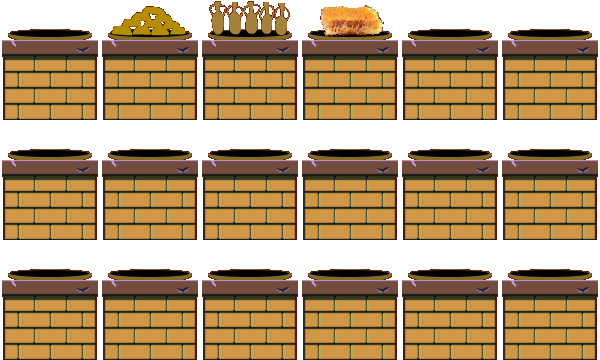
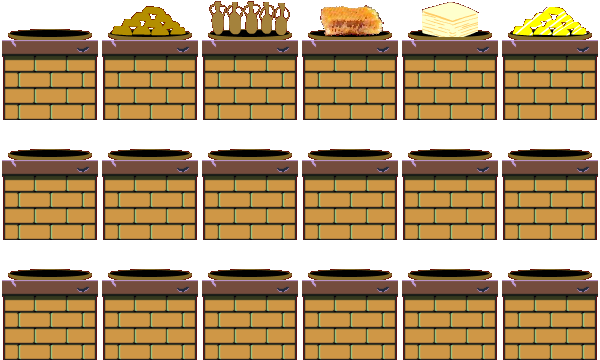
Abdju!

Changed region(s): [[0.84, 0.0, 0.99, 0.1222], [0.69, 0.0, 0.81, 0.1222]]

diff --git a/js/text.js b/js/text.js
@@ -126,8 +126,10 @@ const texts = {
     "bastet": "Bastet was a goddess originally celebrated as a lioness warrior of the sun, but eventually became the protector cat goddess. | Her parents were Ra the sun god and the goddess Isis, and with the craftsman god Ptah, she birthed Maahes the lion warrior.",
     "maahes": "Maahes was a lion-headed god of war and son of the god Ptah and either Bastet or Sekhmet, depending on the mythology. | It was said that as the sun god Ra went on his nightly voyages, Maahes would fight off Apep, the serpent god of chaos. | The duality of chaos against order was an important part of Ancient Egyptian beliefs; one could not exist without the other. | Chaos was called Isfet and order was called Ma'at. The dead needed to be purified of Isfet before they could be reborn in the afterlife.", 
     "sekhmet": "Sekhmet was a lioness goddess of healing. She was also the fiercest hunter in Ancient Egypt. | The sun god Ra sent her to punish mankind for failing to uphold order, but Sekhmet became overcome with bloodlust and took things too far. | Sekhmet refused to end her rampage, so the other gods spilled a mix of beer and pomegranate juice in Sekhmet's path. | Sekhmet, thinking it was blood, drank it up, and eventually passed out from the alcohol.", 
-    "ptah": "Ptah is the guardian of Memphis, a creator god who created the universe by thinking it and giving it life with his words. | He is the god of craftsmen, carpentry, and builders. He is married to the lioness god Sekhmet, and with her he had his son, Nefertum, the a beautiful man made from a lotus flower.", 
-    "sobek": "Sobek, the crocodile god of power and fertility. Like crocodiles, he was an aggressive deity. | At his temple in Shedet, priests kept and cared for a royal crocodile they dubbed the Petsuchos - the son of Sobek. | This Petsuchos was worshipped as a manifestation of Sobek, and when it died, it was mummified and a new son of Sobek was found.",
+    "ptah": "Ptah was the guardian of Memphis, a creator god who created the universe by thinking it and giving it life with his words. | He is the god of craftsmen, carpentry, and builders. He is married to the lioness god Sekhmet, and with her he had his son, Nefertum, the a beautiful man made from a lotus flower.", 
+    "sobek": "Sobek: the crocodile god of power and fertility. Like crocodiles, he was an aggressive deity. | At his temple in Shedet, priests kept and cared for a royal crocodile they dubbed the Petsuchos - the son of Sobek. | This Petsuchos was worshipped as a manifestation of Sobek, and when it died, it was mummified and a new son of Sobek was found.",
+    "osiris": "Osiris was an important god in Ancient Egyptian mythology; a god of fertility and of the afterlife. | His brother Set killed him and cut him into pieces, and when his wife Isis found him, she wrapped up the pieces, hence his mummy wrap. | He then became the judge and ruler of the underworld, while is son Horus avenged him by fighting Set and becoming the new ruler of Egypt.",
+    "isis": "Isis - the wife of the divine king Osiris, who helped the dead move on to the afterlife and was considered the divine mother of the Pharaoh. | Her magical powers exceeded those of all other gods, and she became one of the most widely worshipped dieties in the first millennium BC.",
 
     // Crops
     "corn0": ["Corn in Ancient Egypt? That doesn't sound right. | !Corn, or maize, was first domesticated in Mexico over 6000 years ago.", 
@@ -169,7 +171,7 @@ const texts = {
     "noNectar": "The bees have not collected any nectar yet. | Bees help pollinate plants when they fly from flower to flower collecting nectar. As they're lapping up nectar, pollen from the flower sticks to them. | Flower pollen contains male gametes, which can fertilize other flowers when bees land on them. | Once a flower's ovule has been fertilized by a bee with pollen on it, seeds can be formed, so the plant can reproduce. | I should release some bees around some plants so they can collect some nectar.", 
     "smonk": "Bee-autiful! I collected enough honeycomb to get me @arg jars of honey and @arg2 beeswax!",
 
-    // People - Taremu
+    // Regional - Taremu
     "fishboy": "Taremu is the land of fish, but some foreigners call it the city of lions, because of our temples to the lion goddesses. | But why do you think the goddesses like this city in the first place? Because of all the fish we got here, ya dingdong! | The lions came to the fish, not the other way around, obviously!",
     "fishshop": "There are a lot of cats here - we even have lions in the temple sometimes - so fishing is popular here. | People will buy fish for themselves, or to give to the cats as gifts or offerings. | We consider cats very important - they kill dangerous snakes and protect our Pharaohs.",
     "fruitboy1": "Fruit! Get your fruit here! We got pomegranates, we got melons, we got dates, figs, grapes, olives, plums! | I even have apples - those fruits the Hyksos brought with them! | What, you don't know the Hyksos? Back in the day, they invaded and started the Fifteenth Dynasty! | We're still not entirely sure where they came from, though. | Eventually Ahmose I, the first ruler of the Eighteenth Dynasty, drove off the last Hyksos pharoah and brought Egypt back under Egyptian control! | Being conquered must have sucked, but the Hyksos left a lot of great stuff behind, like new bronze-working techniques, horses, stronger bows and battle axes, and, of course, apples! | Don't ask why a random fruit merchant knows all this, I'm just trying to sell these apples, lady!",
@@ -180,7 +182,7 @@ const texts = {
     "breadgirlNo": "Darn. I guess I'll have to find some honey elsewhere.", 
     "breadgirlLack": "Your generosity is appreciated, but you can't give me honey you don't have. | If you get four jars of honey, come back later and I'll gladly take them off your hands!",
     
-    // People - Memphis
+    // Regional - Memphis
     "student1": "I don't like writing - words are too long! Like the blessing \"ankh, wedja, seneb\" (life, prosperity, health) is three whole words! | We need to find some way to shorten things... maybe make that \"anwese.\" | Just one hieroglyph for all three! I think I'm on to something here. Maybe some day things like that will catch on.",
     "student2": "Noblemen and royalty like me need to go to fancy schools so we can be \"educated\" and \"worldly.\" What a load of junk! | I don't need to know things to be pharoah! The gods will just tell me what to do! | I hope some day the standards are lowered so that ANYONE can be a leader! Even people who hate reading and thinking like me!",
     "teacher": "This educational centre was set up for nobility and royal princes. | To be successful, the younger generation needs to know things like mathematics, history, ethics, medicine, and music! | Some boys are sent off to schools like this as young as eight years old! | Girls, however, get their educations at home, learning things like sewing and cooking from their mothers.",
@@ -191,7 +193,7 @@ const texts = {
     "amenken1b": "Can you provide me with 10 beeswax? I can give you 3 gold for it! | ?amenken1",
     "amenken2": "Thanks for that beeswax! It will surely come in handy!",
 
-    // People - Shedet
+    // Regional - Shedet
     "sobekpriest": "Praise Sobek, the crocodile god who protects us from the dangers of the Nile! | You look like the Sobek-loving sort, given that you are a human, and all humans should love Sobek! | @Sobek's got quite the fanbase here, huh? | Of course, Shedet is home to Sobek's temple, and also a bunch of crocodiles! | You should obviously give something to Sobek himself at the altar over there, but if you're an EXTRA good person, you might be inclined to feed some of the local crocodiles, too! | Just toss those bad boys some fish, and maybe something good will happen if you do!",
     "crocodil": "aaAAaaAaaa | ~croc",
     "crocodil2": "@It looks like it wants some food. | ?croc",
@@ -205,6 +207,19 @@ const texts = {
     "incenseshopLack": "Hey hey! You don't have any gold! If you want free incense, become a god! Otherwise, pay up!", 
     "incenseshopBuy": "Pleasure doing business with you, ma'am! Come again whenever you need more incense!", 
     "obelisk": "This obelisk - a stone pillar - was set up by Senusret I during the 12th Dynasty to celebrate his 30th year as Pharaoh. | To this day, it still stands as the oldest standing obelisk in Egypt.", 
+
+    // Regional - Abdju
+    "tombKhasekhem": "Khasekhemwy was the last pharoah of Egypt's Second Dynasty in the early 2600's BC. | Not much is known about him, but his tomb was excavated in 1901, revealing several chambers, a burial chamber made with limestone blocks, and an elaborate golden scepter. | He built a mudbrick fort known as Shunet El Zebib, which is actively being preserved and researched to this day.",
+    "tombPeribsen": "Peribsen was a pharaoh of the Second Dynasty, some time in the 2700's BC. | Unlike other pharaohs, his patron diety was Set - a god of chaos who killed his brother Osiris - instead of the usual Horus - Osiris's son who avenged his father's death. | In his tomb, archaeologists discovered a Mehen game board. | The game Mehen - named after a snake diety - was a game played on a board shaped like a coiled snake.",
+    "tombQaa": "Qa'a reigned for 33 years at the end of the 30th century BC as the last pharaoh of the First Dynasty of Ancient Egypt. | It is believed that after he died, a war began between royal houses over who would take over the throne.",
+    "tombSemerkhet": "Semerkhet was a pharoah of the First Dynasty. It was said by the historian and priest Manetho that some calamity occurred during his reign. | Historians have found mention of a \"Destruction of Egypt\" mentioned in the Palermo Stone, which documented his reign.",
+    "tombKa": "Before the First Dynasty of Ancient Egypt, there was the Predynastic Period, which spanned from around 6000 BC to 3000 BC. | After the unification of Upper and Lower Egypt, the First Dynasty began. | One of the pharaohs of the Predynastic Period was a ruler whose name is not agreed upon yet. | Some read his name as \"Ka,\" and others read it as \"Sekhen.\" | Not much is known about his reign, but along with Narmer and Scorpion II, he is one of the more heavily documented Predynastic pharaohs.",
+    "goldboy": "Hey hey, if you're going to make an offering to the goddess Isis, you better have some gold ready! | Isis protects the royal throne, and you know the pharaohs love their shiny gold! | Hey hey, you seem like you might have a lot of honey on you. I can tell from how you don't look like a beekeeper! | There's nothing sweeter than honey, except the woman I want to marry, so I need some honey to get that honey, if you know what I mean. | @I really don't. | Hey hey, honey isn't just for sweetening foods, lady! | Honey is used to stop infections, pay taxes, give tribute to the gods, embalm mummies, and, of course, it's used in marriage proposals! | I wrote up a marriage contract: \"I take thee to wife... and promise to deliver to thee yearly twelve jars of honey.\" | Pretty sweet deal, huh? Heh, good one, me! | But I think I bit off more than I could chew with that, so I can't propse to her until I actually HAVE some honey! | So, whattaya say? Honey for Gold? Twelve jars for twelve gold! | ?honeyGold",
+    "goldboyB": "Hey hey, honey for gold. Deal of a lifetime. Twelve honey jars for twelve gold. Do it for love! | ?honeyGold",
+    "goldboyNo": "Hey hey, that really stings. Buzz off if you're going to be like that!",
+    "goldboyLack": "Hey hey, I'm loving the enthusiasm. The world needs more helpful people like you. | But it looks like you're just as lacking in honey as I am. | If you get 12 jars of honey, come back and talk to me!",
+    "goldboyBuy": "Hey hey, you're a real hero, you know that? | Now I've got enough honey to offer my sweetie for @arg! | I want this marriage to last much longer than that, though, so if you get more honey, you know where to find me!",
+    "goldboyBuy5": "Hey hey, you've given me five years worth of honey now! | I'm not set for life yet, but I'm definitely covered for the honeymoon stage of my marriage! | However, with that marriage contract, I guess it'll ALWAYS be a honeymoon stage... | Either way, I'll gladly accept any more honey you have, but for now I want to thank you again for your help! | Here's a few jugs of milk as Bonus Thanks! You know, milk and honey and all that. | Use it wisely! By drinking it, probably.",
     "": ""
 };
 
@@ -337,6 +352,36 @@ const choices = {
             action: function() {
                 land.target.text = "incenseshopb";
                 textHandler.MoveToNewText("incenseshopNo");
+            }
+        }
+    ],
+    "?honeyGold": [
+        {
+            choice: "Trade 12 honey for 12 gold.",
+            action: function() {
+                if(player.HasItem("honey", 12)) {
+                    player.RemoveHoney("any", 0, 12);
+                    player.AddItem("gold", 12);
+                    player.easterEggs.honeyBoy += 1;
+                    if(player.easterEggs.honeyBoy === 5) {
+                        player.ClearChievo("Abdju", "slappy2");
+                        player.AddItem("milk", 5);
+                        textHandler.MoveToNewText("goldboyBuy5");
+                    } else {
+                        textHandler.MoveToNewText("goldboyBuy", player.easterEggs.honeyBoy + (player.easterEggs.honeyBoy === 1 ? " year" : " years"));
+                    }
+                    land.target.text = "goldboyB";
+                } else {
+                    land.target.text = "goldboyB";
+                    textHandler.MoveToNewText("goldboyLack");
+                }
+            }
+        },
+        {
+            choice: "Don't trade.",
+            action: function() {
+                land.target.text = "goldboyB";
+                textHandler.MoveToNewText("goldboyNo");
             }
         }
     ]

diff --git a/js/things.js b/js/things.js
@@ -10,10 +10,10 @@ const things = {
     "tutServant": { type: "person", sprite: "pers2tiny", anim: "helpser", dir: 1, name: "Setka", text: "intro9" },
 
     /* --- PLANTS --- */
-    "corn": { type: "observable", sprite: "plants", sx: 2, rawsx: 0, name: "Corn", textRange: 1 },
+    "corn": { type: "observable", sprite: "plants", sx: 2, rawsx: 0, name: "Corn", textRange: 1 }, // not yet used
     "wheat": { type: "observable", sprite: "plants", sx: 3, rawsx: 1, name: "Wheat", textRange: 2 },
     "barley": { type: "observable", sprite: "plants", sx: 4, rawsx: 0, name: "Barley", textRange: 1 },
-    "papyrus": { type: "observable", sprite: "plants", sx: 5, rawsx: 1, name: "Papyrus", textRange: 3 },
+    "papyrus": { type: "observable", sprite: "plants", sx: 5, rawsx: 1, name: "Papyrus", textRange: 3 }, // not yet used
 
     "flax": { type: "beeable", sprite: "plants", sx: 1, rawsx: 0, sy: 1, name: "Flax", textRange: 2, beeY: -120 },
     "date": { type: "beeable", sprite: "plantsBig", rawsx: 0, sx: 1, name: "Date Palm", textRange: 2, beeY: -280, beeRadius: 75 },
@@ -21,16 +21,17 @@ const things = {
     "bluelotus": { type: "beeable", sprite: "plantsSmall", rawsx: 0, sx: 1, name: "Blue Lotus", textRange: 2, foreground: true },
     "whitelotus": { type: "beeable", sprite: "plantsSmall", rawsx: 0, sx: 2, name: "White Lotus", textRange: 3, foreground: true },
     "chamomile": { type: "beeable", sprite: "plantsSmall", rawsx: 3, sx: 5, name: "Chamomile", textRange: 1, beeY: -60 },
-    "chrysanthemum": { type: "beeable", sprite: "plantsSmall", rawsx: 3, sx: 4, name: "Crown Daisy", textRange: 1, foreground: true }, // untested
+    "chrysanthemum": { type: "beeable", sprite: "plantsSmall", rawsx: 3, sx: 4, name: "Crown Daisy", textRange: 1, foreground: true },
     
     "fig": { type: "observable" }, // fig wasps
     "garlic": { type: "observable" }, // BAD FOR BEES!!!
     "lettuce": { type: "observable" }, // to fuck good
-    "melon": { type: "beeable" },
+    "melon": { type: "beeable" }, // not yet used
     "cornflower": { type: "beeable" }, // Centaurea depressa, imported
     "redpoppy": { type: "beeable" }, // Papaver rhoeas, imported
-    "acacia": { type: "beeable" },
-    "onion": { type: "beeable" },
+    "acacia": { type: "beeable" }, // not yet used
+    "onion": { type: "beeable" }, // not yet used
+    "lettuce": { type: "beeable" }, // not yet used
 
     /* --- MISC --- */
     "puddle": { type: "bg", sprite: "puddle", foreground: true, y: 15 },
@@ -64,12 +65,21 @@ const things = {
     "crocodilI": { type: "person", sprite: "", name: "Crocodile", text: "crocodil" },
     "incenseVendor": { type: "person", sprite: "shopkeeps", sy: 1, dir: 0, name: "Senisonbe", text: "incenseshop" },
     "obelisk": { type: "observable", sprite: "obelisk", name: "Obelisk", text: "obelisk" }, 
+    // Abdju
+    "tomb": { type: "bg", sprite: "tomb", dir: 0 },
+    "tombKhasekhem": { type: "observable", sprite: "tombGlyph", sx: 0, name: "Khasekhemwy's Tomb", text: "tombKhasekhem", y: -290 },
+    "tombPeribsen": { type: "observable", sprite: "tombGlyph", sx: 1, name: "Peribsen's Tomb", text: "tombPeribsen", y: -290 },
+    "tombQaa": { type: "observable", sprite: "tombGlyph", sx: 2, name: "Qa'a's Tomb", text: "tombQaa", y: -290 },
+    "tombSemerkhet": { type: "observable", sprite: "tombGlyph", sx: 3, name: "Semerkhet's Tomb", text: "tombSemerkhet", y: -290 },
+    "tombKa": { type: "observable", sprite: "tombGlyph", sx: 4, name: "Ka's Tomb", text: "tombKa", y: -290 },
+    "slappy2": { type: "person", sprite: "slappy2", anim: "slappy", dir: 0, name: "Ipy", text: "goldboy" },
 
     /* --- SHOP STUFF --- */
     "boxFish": { type: "bg", sprite: "justabox", sy: 1, background: true },
     "boxBread": { type: "bg", sprite: "justabox", sx: 1, background: true },
     "boxFruit": { type: "bg", sprite: "justabox", sx: 2, background: true },
     "boxIncense": { type: "bg", sprite: "justabox", sx: 1, sy: 1, background: true },
+    "boxGold": { type: "bg", sprite: "justabox", sx: 2, sy: 1, background: true },
 
     /* --- GODS --- */
     "bastet": { type: "bg", sprite: "peopleMisc", sx: 1, y: -300 },
@@ -87,6 +97,12 @@ const things = {
     "sobek": { type: "bg", sprite: "peopleMiscBig", y: -200 },
     "sobekAltar": { type: "observable", sprite: "altar", name: "Sobek", text: "sobek", textAlt: "offeringPleased",
                         isGod: true, pronoun: "his", want: "milk", amount: 10, wantDisplay: "jugs of milk", sxAlt: 2 },
+    "osiris": { type: "bg", sprite: "peopleMiscBig", sx: 2, y: -200 },
+    "osirisAltar": { type: "observable", sprite: "altar", name: "Osiris", text: "osiris", textAlt: "offeringPleased",
+                        isGod: true, pronoun: "his", want: "linen", amount: 10, wantDisplay: "sheets of linen", sxAlt: 4 },
+    "isis": { type: "bg", sprite: "peopleMiscBig", sx: 1, y: -200 },
+    "isisAltar": { type: "observable", sprite: "altar", name: "Isis", text: "isis", textAlt: "offeringPleased",
+                        isGod: true, pronoun: "her", want: "gold", amount: 30, sxAlt: 5 },
 };
 
 const movements = {

diff --git a/js/places.js b/js/places.js
@@ -31,7 +31,8 @@ const maxX = {
     "CutsceneThebes": 5800,
     "Taremu": 5565,
     "Memphis": 5180,
-    "Shedet": 3735
+    "Shedet": 3735,
+    "Abdju": 6130
 };
 function AddTemple(arr, x, w) {
     arr.push({ x: x, id: "templeL" });
@@ -129,16 +130,36 @@ const places = {
         for(let x = 0; x < 8; x++) { res.push({ x: 5000 + x * (62 + x), y: Math.floor(5 * Math.random()), id: "chrysanthemum" }); }
         return res;
     }(),
-    "Herakleopolis": [],  
-    "Hermopolis": [],  
-    "Abydos": [],  
+    //"Herakleopolis": [],  
+    //"Hermopolis": [],  
+    "Abdju": function() {
+        const res = [
+            { x: 3800, id: "tomb" },
+            { x: 3810, id: "tombKhasekhem" },
+            { x: 4500, id: "tomb" },
+            { x: 4510, id: "tombPeribsen" },
+            { x: 5200, id: "tomb" },
+            { x: 5210, id: "tombQaa" },
+            { x: 5900, id: "tomb" },
+            { x: 5910, id: "tombSemerkhet" },
+            { x: 6600, id: "tomb" },
+            { x: 6610, id: "tombKa" },
+            { x: 1790, id: "boxGold" },
+            { x: 1900, id: "slappy2" },
+            { x: 2400, id: "isis" }, { x: 2400, id: "isisAltar" },
+            { x: 2700, id: "osiris" }, { x: 2700, id: "osirisAltar" }
+        ];
+        AddTemple(res, 2050, 3);
+        for(let x = 0; x < 5; x++) { res.push({ x: 3090 + x * (90 + x), y: Math.floor(5 * Math.random()), id: "flax" }); }
+        return res;
+    }(),  
     "Thebes": [ // https://en.wikipedia.org/wiki/Amenhotep_III
         { x: 1100, id: "date" },
         { x: 1400, id: "biff" }
     ],
-    "Kom Ombo": [],  
+    //"Kom Ombo": [],  
     "Elephantine": [],  
-    "Abu Simbel": [],  
+    //"Abu Simbel": [],  
     "Napata": [], // https://en.wikipedia.org/wiki/Merymose
     "Testbench": [
         { x: 700, id: "bluelotus" },

diff --git a/js/jraphics.js b/js/jraphics.js
@@ -7,6 +7,7 @@ const sheetInfo = {
     "peopleMisc": { w: 200, h: 260 },
     "peopleMiscBig": { w: 200, h: 345 },
     "slappy": { w: 200, h: 260 },
+    "slappy2": { w: 200, h: 260 },
     "shopkeeps": { w: 150, h: 200 },
     "cat1": { w: 100, h: 75 },
     "cat2": { w: 100, h: 75 },
@@ -45,7 +46,9 @@ const sheetInfo = {
     "hive": { w: 110, h: 109 },
     "ladder": { w: 121, h: 204 },
     "crocodil": { w: 273, h: 100 },
-    "obelisk": { w: 168, h: 589 }
+    "obelisk": { w: 168, h: 589 },
+    "tomb": { w: 541, h: 471 },
+    "tombGlyph": { w: 100, h: 140 }
 };
 for(let i = 0; i <= 4; i++) { sheetInfo["bg" + i] = { w: 3584, h: 896 }; } // https://opengameart.org/content/bevouliin-pyramid-free-game-background-for-game-developers
 for(let i = 0; i <= 3; i++) { sheetInfo["bgM" + i] = { w: 3584, h: 896 }; } // https://opengameart.org/content/classical-ruin-tiles-0

diff --git a/js/main.js b/js/main.js
@@ -80,6 +80,17 @@ https://en.wikipedia.org/wiki/Hyksos
 http://www.legendsandchronicles.com/ancient-civilizations/ancient-egypt/ancient-egyptian-education/
 https://www.aldokkan.com/geography/fayum.htm
 https://fayoumegypt.com/obelisk-of-senusret-i/
+https://en.wikipedia.org/wiki/Abydos,_Egypt
+https://www.britannica.com/topic/Osiris-Egyptian-god
+
+https://en.wikipedia.org/wiki/Umm_El_Qa%27ab
+http://www.touregypt.net/featurestories/khasekhem.htm
+https://en.wikipedia.org/wiki/Seth-Peribsen
+https://en.wikipedia.org/wiki/Mehen_(game)
+https://en.wikipedia.org/wiki/Qa%27a
+https://en.wikipedia.org/wiki/Semerkhet
+https://en.wikipedia.org/wiki/Ka_(pharaoh)
+https://en.wikipedia.org/wiki/Prehistoric_Egypt
 
 https://www.ancient.eu/amun/
 https://en.wikipedia.org/wiki/Lettuce#History

diff --git a/js/boat.js b/js/boat.js
@@ -4,12 +4,12 @@ const positions = [ // name, x, y, distance from previous
     ["Shedet", 445, 214, 2], // Crocodilopolis
     //["Herakleopolis", 455, 245, 1], 
     //["Hermopolis", 475, 285, 2], 
-    ["Abydos", 515, 325, 3], 
+    ["Abdju", 515, 325, 6], // Abydos (formerly 3)
     ["Thebes", 535, 360, 3],
     //["Kom Ombo", 545, 410, 3], // Nubt, also near Syene
-    ["Elephantine", 535, 440, 1], 
+    ["Elephantine", 535, 440, 4], // formerly 1
     //["Abu Simbel", 485, 490, 4], 
-    ["Napata", 495, 650, 10]
+    ["Napata", 495, 650, 14] // formerly 10
 ];
 const boat = {
     animIdx: 0, freeMovement: true, yPos: 650, btnY: 350,//gameIdx: 0, 

diff --git a/js/player.js b/js/player.js
@@ -14,14 +14,15 @@ let player = {
     honeys: [], revealedFunFacts: [],
     nectarCache: {}, currentDay: 1,
     easterEggs: {
-        catDog: false
+        catDog: false, honeyBoy: 0, 
     },
     beedFlowers: [], 
     clearedChievos: [], 
     chievos: {
         "Taremu": ["shop2", "bastetAltar", "sekhmetAltar", "maahesAltar"],
         "Memphis": ["biff", "ptahAltar"],
-        "Shedet": ["sobekAltar", "crocodil"]
+        "Shedet": ["sobekAltar", "crocodil"],
+        "Abdju": ["osirisAltar", "isisAltar", "slappy2"]
     },
     ClearChievo: function(place, id) {
         player.clearedChievos.push(id);

diff --git a/js/land.js b/js/land.js
@@ -34,7 +34,7 @@ const land = {
         land.sawGet = false;
         land.flowering = inSeason || false;
         land.cutscene = { active: false };
-        land.maxX = maxX[location] || 7678;
+        land.maxX = maxX[location] || 6130;
         if(autoPlays[location] !== undefined) {
             land.Animate();
             autoPlays[location]();
